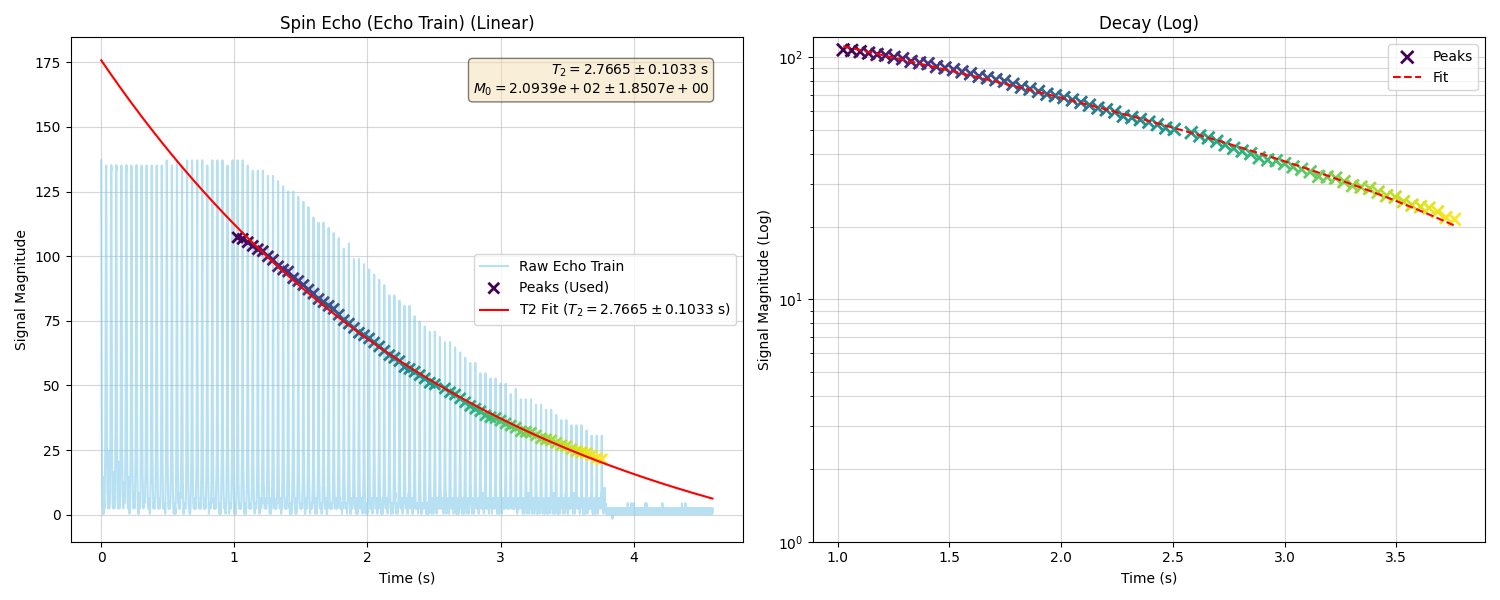
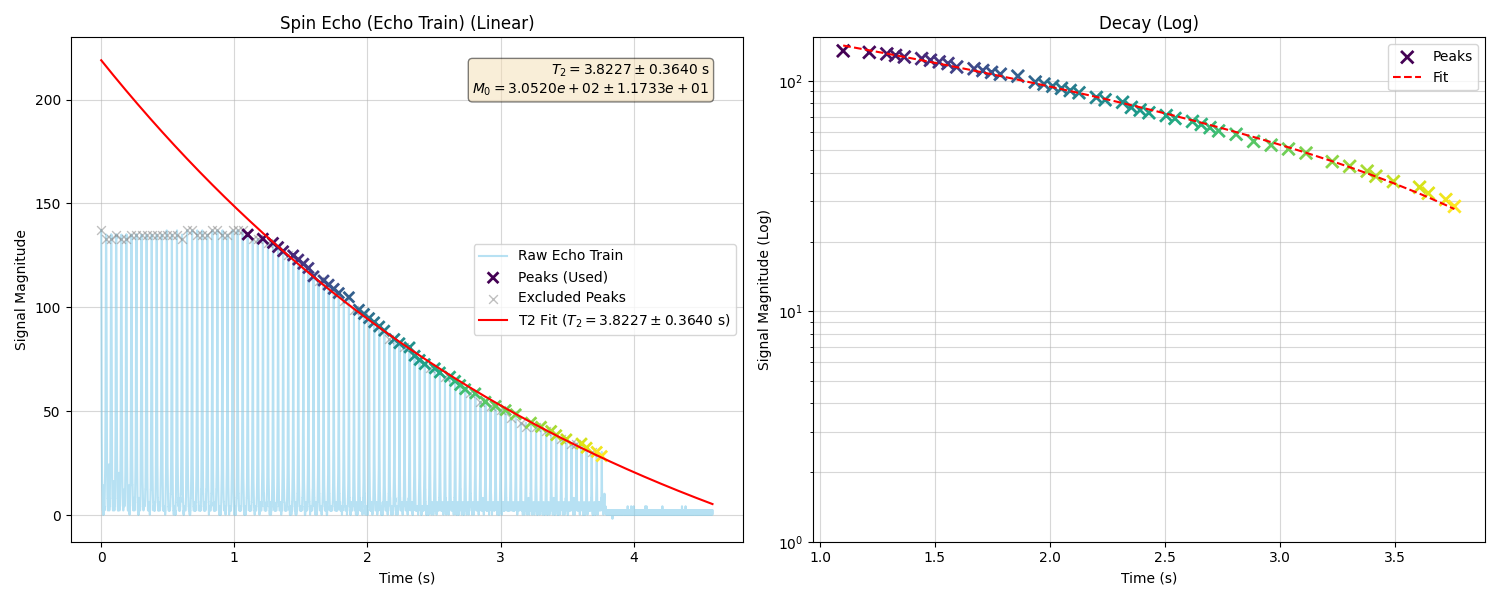
new csv format

diff --git a/src/nmr_analysis/cli/commands.py b/src/nmr_analysis/cli/commands.py
@@ -630,50 +630,74 @@ def _run_analysis(
                 f"Total peaks before trim: {len(peak_times)}. Range: {peak_times[0]:.4f} - {peak_times[-1]:.4f} s"
             )
 
-            mask = peak_times > 1.0
-            mask_exclude = ~mask
+            # User Request (Update): "It should find the outer envelope... reverse... should make that happen"
+            # This implies relying on the Reverse Monotonic Filter instead of an arbitrary 1.0s cut.
+            # We will disable the 1.0s trim logic but keep the logging for verification.
+
+            # mask = peak_times > 1.0
+            # mask_exclude = ~mask
 
             # Add trimmed peaks to excluded lists
-            excluded_times = np.concatenate((excluded_times, peak_times[mask_exclude]))
-            excluded_amps = np.concatenate((excluded_amps, peak_amps[mask_exclude]))
+            # excluded_times = np.concatenate((excluded_times, peak_times[mask_exclude]))
+            # excluded_amps = np.concatenate((excluded_amps, peak_amps[mask_exclude]))
 
-            peak_times = peak_times[mask]
-            peak_amps = peak_amps[mask]
+            # peak_times = peak_times[mask]
+            # peak_amps = peak_amps[mask]
+            pass
 
             if len(peak_times) > 0:
                 console.print(
                     f"Remaining peaks after 1.0s trim: {len(peak_times)}. Range: {peak_times[0]:.4f} - {peak_times[-1]:.4f} s"
                 )
-                # User Request: "Still use the argmax for starting at the highest index of after that one second"
-                # Find the index of the maximum amplitude in the REMAINING peaks
-                max_idx_after = np.argmax(peak_amps)
-                max_peak_time = peak_times[max_idx_after]
-                max_peak_amp = peak_amps[max_idx_after]
+                # User Request (Update): Reliance on Reverse Monotonic Filter + Preprocess ArgMax.
+                # Disabling secondary ArgMax logic.
 
-                console.print(
-                    f"Max peak after 1.0s found at {max_peak_time:.4f}s (Amp: {max_peak_amp:.4f}). Trimming pre-max peaks."
-                )
+                # max_idx_after = np.argmax(peak_amps)
+                # max_peak_time = peak_times[max_idx_after]
+                # max_peak_amp = peak_amps[max_idx_after]
+
+                # console.print(
+                #     f"Max peak after 1.0s found at {max_peak_time:.4f}s (Amp: {max_peak_amp:.4f}). Trimming pre-max peaks."
+                # )
 
                 # Add pre-max peaks to excluded
-                if max_idx_after > 0:
-                    excluded_times = np.concatenate(
-                        (excluded_times, peak_times[:max_idx_after])
-                    )
-                    excluded_amps = np.concatenate(
-                        (excluded_amps, peak_amps[:max_idx_after])
-                    )
+                # if max_idx_after > 0:
+                #    excluded_times = np.concatenate((excluded_times, peak_times[:max_idx_after]))
+                #    excluded_amps = np.concatenate((excluded_amps, peak_amps[:max_idx_after]))
 
                 # Slice from that max index onwards
-                peak_times = peak_times[max_idx_after:]
-                peak_amps = peak_amps[max_idx_after:]
+                # peak_times = peak_times[max_idx_after:]
+                # peak_amps = peak_amps[max_idx_after:]
+                # pass
 
                 console.print(
                     f"Final peaks for fitting: {len(peak_times)}. Range: {peak_times[0]:.4f} - {peak_times[-1]:.4f} s"
                 )
             else:
-                console.print(
-                    f"[red]WARNING: No peaks remaining after 1.0s trim![/red]"
-                )
+                console.print(f"[red]WARNING: No peaks remaining after trimming![/red]")
+
+        # User Request: "remove the first peak from every fitting data before fit"
+        # This applies generally to T2 Combined (Echo Train) analysis.
+        if len(peak_times) > 0:
+            # Exclude the first peak (Pulse/First Echo)
+            # Add to excluded
+            excluded_times = np.concatenate((excluded_times, [peak_times[0]]))
+            excluded_amps = np.concatenate((excluded_amps, [peak_amps[0]]))
+
+            # Remove from valid
+            peak_times = peak_times[1:]
+            peak_amps = peak_amps[1:]
+
+            console.print("Removed first peak from fitting data (User Request).")
+
+        if len(peak_times) < 3:
+            console.print(
+                "[red]Not enough peaks for fit after removing first peak.[/red]"
+            )
+            # We might still want to plot what we have? Or return?
+            # If we return [], we get no plot.
+            # Let's try to fit with what we have or skip.
+            return []
 
         # Fit T2 to the peaks
         # Using 0 as initial time? Use relative time?
@@ -707,7 +731,15 @@ def _run_analysis(
                 filepath = save_path / fname
                 console.print(f"Saving plot to {filepath}")
 
-            plot_combined_t2(data, peak_times, peak_amps, result, filepath=filepath)
+            plot_combined_t2(
+                data,
+                peak_times,
+                peak_amps,
+                result,
+                filepath=filepath,
+                excluded_times=excluded_times,
+                excluded_amps=excluded_amps,
+            )
 
         return [
             AnalysisContext(
@@ -1395,7 +1427,7 @@ def plot_analysis_summary(
 
 
 if __name__ == "__main__":
-    for week in ("3.2",):
+    for week in ("4.1",):
         analyze(
             Path(rf"H:\My Drive\Lab C\NMR\week{week}"),
             experiment=None,

diff --git a/src/nmr_analysis/io/loader.py b/src/nmr_analysis/io/loader.py
@@ -198,6 +198,106 @@ class CSVLoader:
             raise RuntimeError(f"Failed to load CSV file {file_path}: {e}")
 
 
+class OscilloscopeLoader:
+    """Loader for Oscilloscope CSV files."""
+
+    def __init__(self, channel: str = "Channel 1"):
+        self.channel = channel
+
+    def load(self, file_path: Path) -> NMRData:
+        """
+        Load data from an Oscilloscope CSV file.
+
+        Format:
+        - Metadata rows (Key: Value)
+        - Empty row
+        - Header row (Sample No, Time (s), 1 (VOLT), 2 (VOLT))
+        - Data rows
+        """
+        import polars as pl
+        import csv
+
+        file_path = Path(file_path)
+        if not file_path.exists():
+            raise FileNotFoundError(f"File not found: {file_path}")
+
+        metadata = {}
+        skip_rows = 0
+
+        # Parse metadata and determine skip_rows
+        with open(file_path, "r", newline="", encoding="utf-8-sig") as f:
+            reader = csv.reader(f)
+            for i, row in enumerate(reader):
+                if not row:  # Empty row indicates end of metadata
+                    skip_rows = i + 1
+                    break
+
+                # Parse metadata (Key: Value)
+                if len(row) >= 1:
+                    line = row[0]
+                    if ":" in line:
+                        key, value = line.split(":", 1)
+                        metadata[key.strip()] = value.strip()
+                    elif len(row) >= 2:
+                        # Fallback for comma separated key, value
+                        metadata[row[0].strip()] = row[1].strip()
+
+        try:
+            # Load data with polars
+            # The next line after empty row is header.
+            df = pl.read_csv(
+                file_path,
+                skip_rows=skip_rows,
+                has_header=True,
+                infer_schema_length=1000,
+            )
+
+            # Map columns
+            time_col_name = "Time (s)"
+            if time_col_name not in df.columns:
+                # Fallback search for time column
+                possible = [c for c in df.columns if "Time" in c]
+                if possible:
+                    time_col_name = possible[0]
+                else:
+                    raise ValueError(
+                        f"Could not find Time column. Columns: {df.columns}"
+                    )
+
+            time_col = df[time_col_name].cast(pl.Float64, strict=False)
+
+            # Select signal column
+            target_col = "1 (VOLT)"
+            if "2" in self.channel:
+                target_col = "2 (VOLT)"
+
+            if target_col not in df.columns:
+                possible = [
+                    c
+                    for c in df.columns
+                    if f"{'2' if '2' in self.channel else '1'}" in c and "VOLT" in c
+                ]
+                if possible:
+                    target_col = possible[0]
+                else:
+                    raise ValueError(
+                        f"Could not find signal column for {self.channel}. Columns: {df.columns}"
+                    )
+
+            signal_col = df[target_col].cast(pl.Float64, strict=False)
+
+            # Filter valid data
+            mask = time_col.is_not_null() & signal_col.is_not_null()
+
+            time = time_col.filter(mask).to_numpy()
+            signal = signal_col.filter(mask).to_numpy()
+
+            return NMRData(time=time, signal=signal, metadata=metadata)
+
+        except Exception as e:
+            raise RuntimeError(f"Failed to load Oscilloscope CSV file {file_path}: {e}")
+
+
 def get_loader(file_path: Path, channel: str = "Channel 1"):
     """
     Factory function to get the correct loader based on file extension.
@@ -206,6 +306,31 @@ def get_loader(file_path: Path, channel: str = "Channel 1"):
     suffix = file_path.suffix.lower()
 
     if suffix == ".csv":
+        # Sniff content to distinguish between generic CSV and Oscilloscope CSV
+        try:
+            with open(file_path, "r", encoding="utf-8-sig") as f:
+                # Read header lines
+                header_lines = []
+                for _ in range(20):
+                    line = f.readline()
+                    if not line:
+                        break
+                    header_lines.append(line)
+
+                content_chunk = "".join(header_lines)
+
+                # Check for New Oscilloscope format
+                # User specified: Model: Oscilloscope DSOX1204G
+                if (
+                    "Model" in content_chunk
+                    and "Oscilloscope" in content_chunk
+                    and "DSOX1204G" in content_chunk
+                ):
+                    return OscilloscopeLoader(channel=channel)
+
+        except Exception:
+            pass
+
         return CSVLoader(channel=channel)
     elif suffix in (".h5", ".hdf5"):
         return KeysightLoader(channel=channel)

diff --git a/src/nmr_analysis/analysis/processing.py b/src/nmr_analysis/analysis/processing.py
@@ -122,7 +122,10 @@ def extract_echo_train(
     # Effectively "Monotonic Ascending Backward".
 
     peak_indices = peaks_all
-    peak_amps = detection_signal[peaks_all]
+
+    # Use UNSMOOTHED signal for filtering to capture true Outer Envelope
+    unsmoothed_abs = np.abs(signal)
+    peak_amps = unsmoothed_abs[peaks_all]
 
     valid_indices = filter_peaks_monotonic_reverse(peak_indices, peak_amps)
 
@@ -136,10 +139,10 @@ def extract_echo_train(
     excluded_indices = sorted(excluded_indices)
 
     peak_times = time_slice[valid_indices]
-    peak_amps = detection_signal[valid_indices]
+    peak_amps = unsmoothed_abs[valid_indices]
 
     excluded_times = time_slice[excluded_indices]
-    excluded_amps = detection_signal[excluded_indices]
+    excluded_amps = unsmoothed_abs[excluded_indices]
 
     return peak_times, peak_amps, excluded_times, excluded_amps
 

diff --git a/tests/test_analysis.py b/tests/test_analysis.py
@@ -13,7 +13,7 @@ def test_t1_fitting():
     alpha = 1.0
 
     # M(t) = M0 * (1 - 2 * alpha * exp(-t / T1))
-    signal = t1_model(delays, M0, T1, alpha)
+    signal = t1_model(delays, M0, T1)
     # Add noise
     signal += np.random.normal(0, 1.0, size=delays.shape)
 
